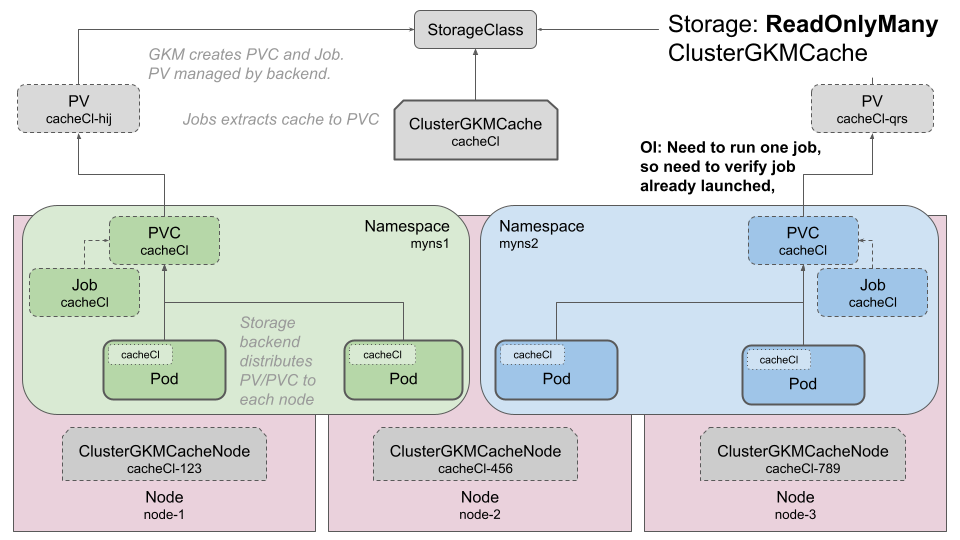
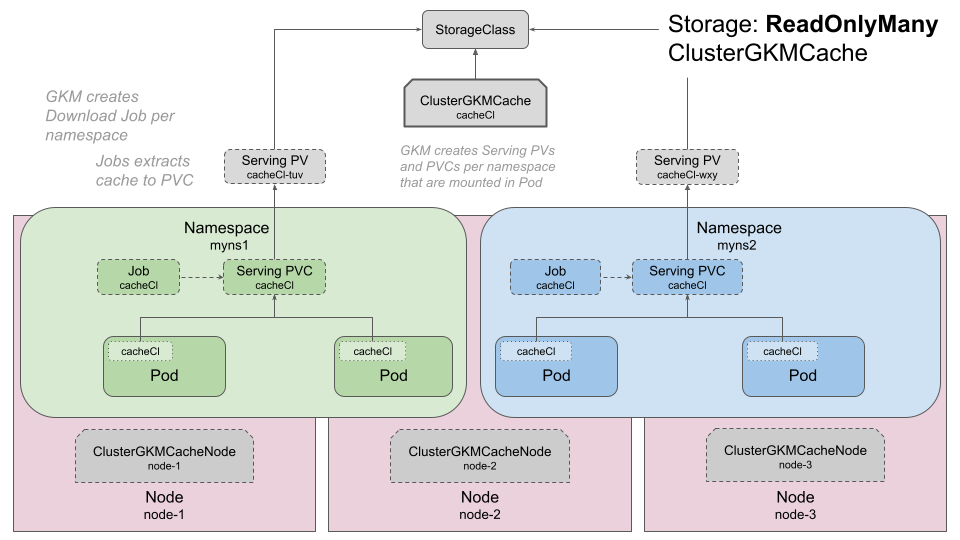
update docs based on recent code changes
Update some of the docs based on moveing to a downloading and serving
PVC pattern.

diff --git a/docs/DeploymentOptions.md b/docs/DeploymentOptions.md
@@ -26,11 +26,10 @@ The two major factors that dictate deployment are:
 - **Cluster Storage Backend:**
   If the Kubernetes StorageClass backend supports an Access Mode of `ReadOnlyMany`,
   then the storage backend can distribute extracted GPU Kernel Cache to each
-  node to each node.
+  node.
   If the Kubernetes StorageClass backend does not support an Access Mode of
   `ReadOnlyMany`, GKM needs to handle the distribution of the extracted GPU Kernel
   Cache to each node.
-  If this is the case, certain concession need to be made.
 
 ![GKM Flowchart](images/GKM_CRD_Flowchart.png)
 
@@ -132,59 +131,39 @@ spec:
 GKM will create a Kubernetes PVC on each Node.
 Since there are now multiple PVCs in the Namespace, each PVC will be created
 with the same name as the GKMCache but with a unique id appended.
+These are called the Download PVCs, and there is one per Node.
 Then on each Node, GKM will launch a Kubernetes Job with the same name that will
 download the OCI Image and extract the image into each PVC.
+
+GKM will also create an additional PVC with the same name as the GKMCache, but this
+time with no additional unique ids appended.
+This is called the Serving PVC, and there is one for the Namespace.
 
 The user then creates the workload with a `volume:` of type
 `persistentVolumeClaim:` and a `claimName:` set to the GKMCache name with the
 OCI Image.
-Because there is a PVC per node, GKM has a Mutating Webhook that will update the
-`claimName:` for the Pod when it's launched on a Node.
-To trigger the Mutating Webhook, and keep minimal impact to pods not needing the
-mutation, the Mutating Webhook only actives is the Pod has the Label
-`gkm.io/pvc-mutation: "true"`.
-
-When a Pod is launched, the Mutating Webhook runs first, then the Kubernetes
-Scheduler is run.
-So the Node has not been selected at the time the Mutating Webhook runs, which
-is needed to set the correct PVC in the Volume.
-To get around this, GKM requires the application to be launched in a Kubernetes
-DaemonSet when `ReadOnlyMany` is not supported, because Pods associated with a
-DaemonSet do provide the selected Node at the time the Mutating Webhook runs.
-
-So the user then creates a Kubernetes DaemonSet with a `volume:` of type
-`persistentVolumeClaim:` and a `claimName:` set to the GKMCache name with the
-OCI Image and the Label `gkm.io/pvc-mutation: "true"`.
+This maps to the Serving PVC.
+This works because all the PVCs map to the same directory name on each Node.
 
 ```yaml
-kind: DaemonSet
-apiVersion: apps/v1
+kind: Pod
+apiVersion: v1
 metadata:
-  name: myDaemonSet1
+  name: myPod1
   namespace: myns1
 spec:
-  selector:
-    matchLabels:
-      name: myDaemonSet1
-  template:
-    metadata:
-      labels:
-        name: myDaemonSet1
-        gkm.io/pvc-mutation: "true"   <=== Label to Trigger Webhook
-    spec:
-      containers:
-        - name: test
-          image: quay.io/fedora/fedora-minimal
-          imagePullPolicy: IfNotPresent
-          command: [sleep, 365d]
-          volumeMounts:
-            - name: kernel-volume
-              mountPath: /cache
-              readOnly: true
-      volumes:
+  containers:
+    - name: test
+      image: quay.io/fedora/fedora-minimal
+      imagePullPolicy: IfNotPresent
+      command: [sleep, 365d]
+      volumeMounts:
         - name: kernel-volume
-          persistentVolumeClaim:
-            claimName: cacheNs        <=== GKMCache Name
+          mountPath: /cache       <=== Directory in Pod where extracted cache located
+  volumes:
+    - name: kernel-volume
+      persistentVolumeClaim:
+        claimName: cacheNs        <=== GKMCache Name
 ```
 
 The extracted GPU Kernel Cache is then mounted in the application Pod.
@@ -305,76 +284,52 @@ spec:
     - myns2
 ```
 
-GKM will create a Kubernetes PVC in each Namespace on each Node.
+GKM will create a download Kubernetes PVC in each Namespace on each Node.
 Since there are now multiple PVCs in the Namespace, each PVC will be created
 with the same name as the GKMCache but with a unique id appended.
-Then on for each PVC, GKM will launch a Kubernetes Job with the same name that
+Then for each PVC, GKM will launch a Kubernetes Job with the same name that
 will download the OCI Image and extract the image into each PVC.
 
-As with the GKMCache case with Access Mode of `ReadWriteOnce`, the application
-needs to be launched in a Kubernetes DaemonSet in each Namespace and the Label
-`gkm.io/pvc-mutation: "true"` must be applied to each.
-
 ```yaml
-kind: DaemonSet
-apiVersion: apps/v1
+kind: Pod
+apiVersion: v1
 metadata:
-  name: myDaemonSet1
+  name: myPod1
   namespace: myns1
 spec:
-  selector:
-    matchLabels:
-      name: myDaemonSet1
-  template:
-    metadata:
-      labels:
-        name: myDaemonSet1
-        gkm.io/pvc-mutation: "true"   <=== Label to Trigger Webhook
-    spec:
-      containers:
-        - name: test
-          image: quay.io/fedora/fedora-minimal
-          imagePullPolicy: IfNotPresent
-          command: [sleep, 365d]
-          volumeMounts:
-            - name: kernel-volume
-              mountPath: /cache
-              readOnly: true
-      volumes:
+  containers:
+    - name: test
+      image: quay.io/fedora/fedora-minimal
+      imagePullPolicy: IfNotPresent
+      command: [sleep, 365d]
+      volumeMounts:
         - name: kernel-volume
-          persistentVolumeClaim:
-            claimName: cacheNs        <=== GKMCache Name
+          mountPath: /cache       <=== Directory in Pod where extracted cache located
+  volumes:
+    - name: kernel-volume
+      persistentVolumeClaim:
+        claimName: cacheCl        <=== ClusterGKMCache Name
 ```
 
 ```yaml
-kind: DaemonSet
-apiVersion: apps/v1
+kind: Pod
+apiVersion: v1
 metadata:
-  name: myDaemonSet2
+  name: myPod1
   namespace: myns2
 spec:
-  selector:
-    matchLabels:
-      name: myDaemonSet2
-  template:
-    metadata:
-      labels:
-        name: myDaemonSet2
-        gkm.io/pvc-mutation: "true"   <=== Label to Trigger Webhook
-    spec:
-      containers:
-        - name: test
-          image: quay.io/fedora/fedora-minimal
-          imagePullPolicy: IfNotPresent
-          command: [sleep, 365d]
-          volumeMounts:
-            - name: kernel-volume
-              mountPath: /cache
-              readOnly: true
-      volumes:
+  containers:
+    - name: test
+      image: quay.io/fedora/fedora-minimal
+      imagePullPolicy: IfNotPresent
+      command: [sleep, 365d]
+      volumeMounts:
         - name: kernel-volume
-          persistentVolumeClaim:
-            claimName: cacheNs        <=== GKMCache Name
+          mountPath: /cache       <=== Directory in Pod where extracted cache located
+  volumes:
+    - name: kernel-volume
+      persistentVolumeClaim:
+        claimName: cacheCl        <=== ClusterGKMCache Name
 ```
 
 The extracted GPU Kernel Cache is then mounted in the application Pods.
@@ -396,7 +351,7 @@ Therefore, GKM will create PVs.
 In a KIND Cluster, when volume mounting a PVC into a Pod, the permissions on the
 mounted directory are not setup in a way that allows the Pod to access the
 mounted directory.
-A workaround is to include a init container in each Pod or DaemonSet that is
+A workaround is to include a init container in each Pod that is
 volume mounting the PVC which adjusts the directory permissions properly.
 The following init container is patched in all the examples in
 [./examples/](https://github.com/redhat-et/GKM/tree/main/examples):

diff --git a/docs/Examples.md b/docs/Examples.md
@@ -19,7 +19,6 @@ Quick summary is that the two major factors that dictate deployment are:
   If the Kubernetes StorageClass backend does not support an Access Mode of
   `ReadOnlyMany`, GKM needs to handle the distribution of the extracted GPU Kernel
   Cache to each node.
-  If this is the case, certain concession need to be made.
 
 To handle these different deployment options, the Examples directory is using a
 tool called `kustomize` along with a shell script to tailor a set of base yaml
@@ -28,8 +27,6 @@ files to work in multiple environments.
 Here are the set of options the examples supports:
 
 - **rox** vs **rwo**: The access mode of `ReadOnlyMany` or `ReadWriteOnce`.
-  - `rox` implies Pods will be used.
-  - `rwo` implies DaemonSets will be used.
 - **namespace** vs **cluster**: The scope.
   - **namespace** or **ns** implies GKMCache will be used.
   - **cluster** or **cl** implies ClusterGKMCache will be used. Also implies two
@@ -53,7 +50,7 @@ For a GKM use case, the following objects are needed:
 
 - **Namespace** (two Namespaces if cluster scoped)
 - **GKMCache** (namespace scoped) or **ClusterGKMCache** (cluster scoped)
-- **Pod** (for ReadOnlyMany (rox)) or **DaemonSet** (for ReadWriteOnce (rwo))
+- **Pod**
 
 So the yaml files for these basic objects is laid out as follows.
 The `kustomization.yaml` file is a `kustomize` file that lists the set of files
@@ -62,20 +59,14 @@ the tool should include.
 ```sh
 $ tree examples/base/
 examples/base/
-├── access
-│   ├── rox
-│   │   ├── kustomization.yaml
-│   │   ├── pod-1.yaml
-│   │   ├── pod-2.yaml
-│   │   └── pod-3.yaml
-│   └── rwo
-│       ├── ds-1.yaml
-│       ├── ds-2.yaml
-│       ├── ds-3.yaml
-│       └── kustomization.yaml
 ├── common
 │   ├── kustomization.yaml
 │   └── namespace-1.env
+├── pods
+│   ├── kustomization.yaml
+│   ├── pod-1.yaml
+│   ├── pod-2.yaml
+│   └── pod-3.yaml
 └── scope
     ├── cluster
     │   ├── clustergkmcache.yaml
@@ -89,13 +80,13 @@ examples/base/
 The base objects are just the bare bones yaml for the object.
 Different deployments require additional fields in the object to be set.
 For example, a deployment in a KIND Cluster requires an Init-Container be added
-to the GKMCache/ClusterGKMCache and Pod/DaemonSet that sets the permissions of
+to the GKMCache/ClusterGKMCache and Pod that sets the permissions of
 the PVC VolumeMount so the workload can access the contents.
 If using the Node Feature Discovery (NFD), the GKMCache/ClusterGKMCache and
 Pod/DaemonSet objects need Affinity set so they are deployed on the proper node
 based on the labels set by NFD.
 
-The variants directory contains `kustomize` patches, that mutate base yaml files
+The variants directory contains `kustomize` patches that mutate base yaml files
 with the desired field updates.
 A basic `kustomize` patch looks something like:
 
@@ -142,9 +133,11 @@ $ tree examples/variants/
 examples/variants/
 ├── access
 │   ├── rox
-│   │   └── kustomization.env
+│   │   └── kustomization.yaml
 │   └── rwo
-│       └── kustomization.env
+│       └── kustomization.yaml
+├── pods
+│   └── kustomization.env
 └── scope
     ├── cluster
     │   └── kustomization.env
@@ -163,8 +156,10 @@ of these files are checked into the repo.
 ```sh
 $ tree examples/overlays/
 examples/overlays/
-├── access
+├── pods
+│   └── kustomization.yaml
 └── scope
+    └── kustomization.yaml
 ```
 
 Once the `examples/generate-files.sh` script is run, the output looks something
@@ -185,14 +180,14 @@ nameSuffix: -rwo-namespace-rocm-v3
 ```
 
 ```sh
-$ cat examples/overlays/access/kustomization.yaml
+$ cat examples/overlays/pods/kustomization.yaml
 apiVersion: kustomize.config.k8s.io/v1beta1
 kind: Kustomization
 resources:
-- ../../base/access/rwo
+- ../../base/pods
 
 components:
-- ../../variants/access/rwo
+- ../../variants/pods
 
 nameSuffix: -rwo-namespace-rocm-v3
 ```
